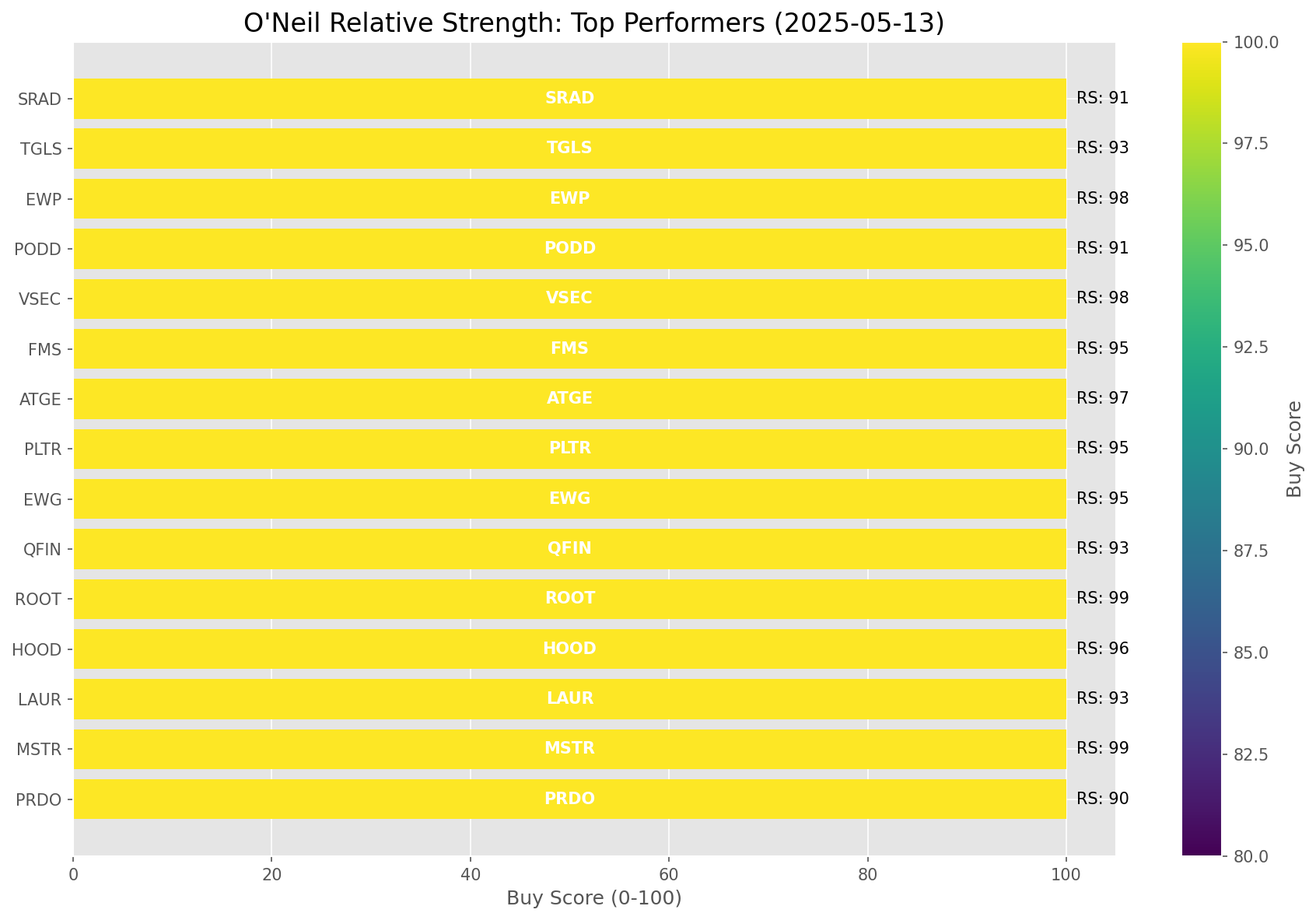
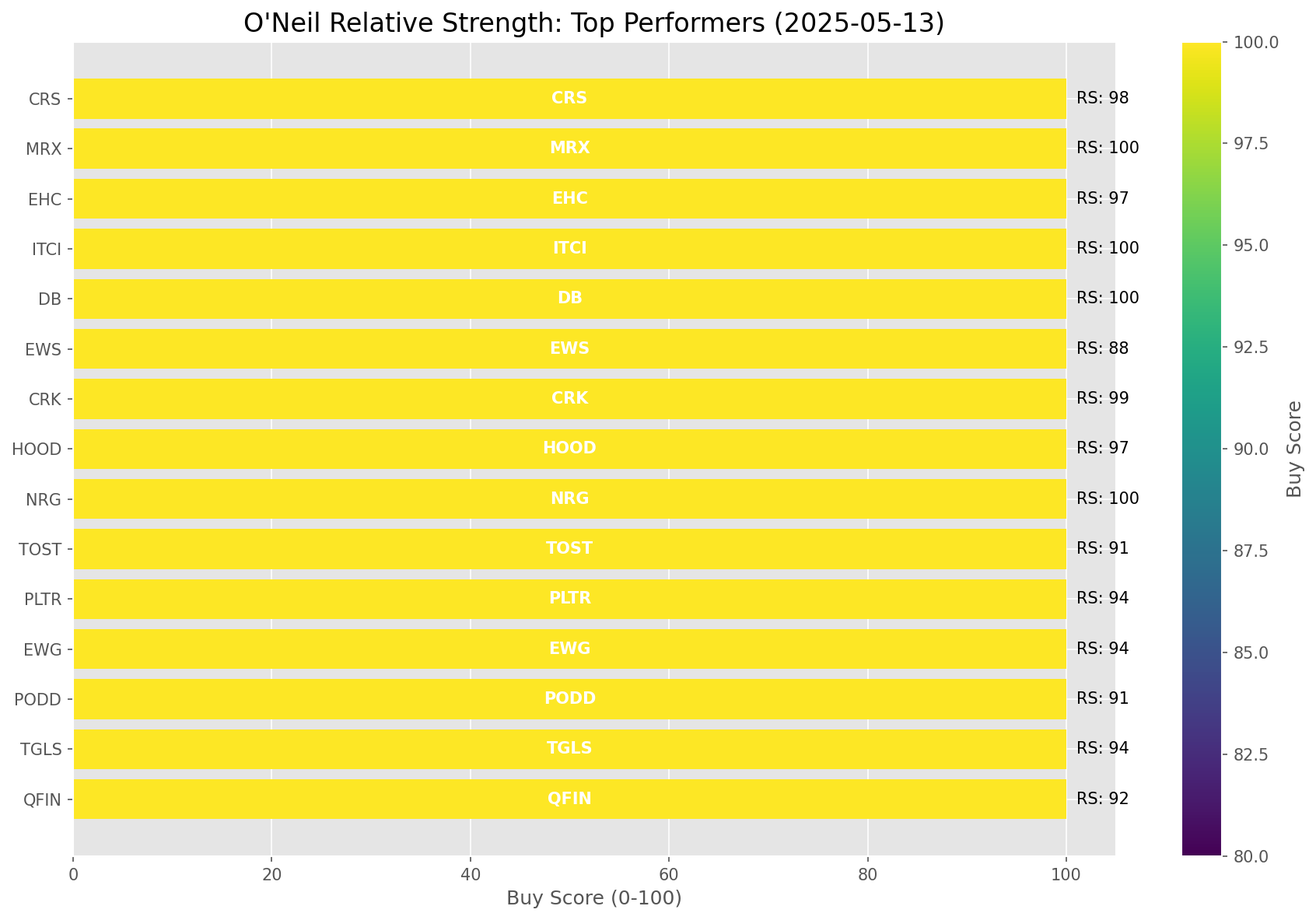
Add market report for 2025-05-13

diff --git a/oneil_relative_strength_report_2025-05-13.md b/oneil_relative_strength_report_2025-05-13.md
@@ -9,11 +9,11 @@
 | Metric | Value |
 |--------|-------|
 | **Market Valuation** | **Fair Valued** |
-| **Current Ratio** | 9.67 |
+| **Current Ratio** | 9.68 |
 | **Historical Mean** | 9.41 |
 | **Standard Deviation** | 0.51 |
 | **Z-Score (StdDev from Mean)** | 0.34 |
-| **Total Market Cap** | $289.74 trillion |
+| **Total Market Cap** | $290.15 trillion |
 | **GDP** | $29.98 trillion |
 
 ## **Market Insights**
@@ -49,41 +49,41 @@ Based on William O'Neil's Relative Strength Methodology
 
 | ETF | Strength | RS Rating | Performance | Above Key MAs | Trend | Sector |
 |-----|----------|-----------|-------------|--------------|-------|--------|
-| [KWEB](https://www.tradingview.com/chart/?symbol=KWEB) | 91.5 | 83.0 | 6.17% | 10d ✓, 50d ✓, 200d ✓ | ↗ | Chinese Internet |
-| [SLV](https://www.tradingview.com/chart/?symbol=SLV) | 88.0 | 76.0 | 3.07% | 10d ✓, 50d ✓, 200d ✓ | ↗ | Silver |
-| [XLI](https://www.tradingview.com/chart/?symbol=XLI) | 86.5 | 73.0 | 2.26% | 10d ✓, 50d ✓, 200d ✓ | ↗ | Industrial |
-| [GLD](https://www.tradingview.com/chart/?symbol=GLD) | 86.1 | 92.0 | 11.90% | 10d ✗, 50d ✓, 200d ✓ | ↗ | Gold |
-| [CIBR](https://www.tradingview.com/chart/?symbol=CIBR) | 84.5 | 69.0 | 0.75% | 10d ✓, 50d ✓, 200d ✓ | ↗ | Cybersecurity |
-| [XLU](https://www.tradingview.com/chart/?symbol=XLU) | 84.5 | 69.0 | 0.88% | 10d ✓, 50d ✓, 200d ✓ | ↗ | Utilities |
-| [IYZ](https://www.tradingview.com/chart/?symbol=IYZ) | 84.0 | 68.0 | 0.56% | 10d ✓, 50d ✓, 200d ✓ | ↗ | Telecommunications |
-| [PAVE](https://www.tradingview.com/chart/?symbol=PAVE) | 82.5 | 65.0 | 0.06% | 10d ✓, 50d ✓, 200d ✓ | ↗ | Infrastructure |
-| [XLF](https://www.tradingview.com/chart/?symbol=XLF) | 80.5 | 61.0 | -0.64% | 10d ✓, 50d ✓, 200d ✓ | ↗ | Financial |
-| [DBA](https://www.tradingview.com/chart/?symbol=DBA) | 78.0 | 56.0 | -1.85% | 10d ✓, 50d ✓, 200d ✓ | ↗ | Agriculture |
-| [AIQ](https://www.tradingview.com/chart/?symbol=AIQ) | 78.0 | 56.0 | -1.64% | 10d ✓, 50d ✓, 200d ✓ | ↗ | Artificial Intelligence & Technology |
-| [ICLN](https://www.tradingview.com/chart/?symbol=ICLN) | 77.5 | 95.0 | 15.56% | 10d ✓, 50d ✓, 200d ✓ | ↘ | Clean Energy |
-| [ARKF](https://www.tradingview.com/chart/?symbol=ARKF) | 76.5 | 53.0 | -2.45% | 10d ✓, 50d ✓, 200d ✓ | ↗ | Fintech Innovation |
-| [BLOK](https://www.tradingview.com/chart/?symbol=BLOK) | 75.5 | 51.0 | -2.65% | 10d ✓, 50d ✓, 200d ✓ | ↗ | Blockchain & Cryptocurrency |
-| [XLC](https://www.tradingview.com/chart/?symbol=XLC) | 74.5 | 49.0 | -3.00% | 10d ✓, 50d ✓, 200d ✓ | ↗ | Communications |
-| [ARKW](https://www.tradingview.com/chart/?symbol=ARKW) | 73.5 | 47.0 | -3.48% | 10d ✓, 50d ✓, 200d ✓ | ↗ | Next Generation Internet |
-| [XLY](https://www.tradingview.com/chart/?symbol=XLY) | 73.5 | 47.0 | -3.55% | 10d ✓, 50d ✓, 200d ✓ | ↗ | Consumer Discretionary |
-| [IYT](https://www.tradingview.com/chart/?symbol=IYT) | 70.5 | 41.0 | -4.96% | 10d ✓, 50d ✓, 200d ✓ | ↗ | Transportation |
-| [ARKK](https://www.tradingview.com/chart/?symbol=ARKK) | 68.0 | 36.0 | -6.67% | 10d ✓, 50d ✓, 200d ✓ | ↗ | Innovation |
-| [JETS](https://www.tradingview.com/chart/?symbol=JETS) | 63.0 | 26.0 | -10.37% | 10d ✓, 50d ✓, 200d ✓ | ↗ | Airlines |
-| [XLK](https://www.tradingview.com/chart/?symbol=XLK) | 58.0 | 56.0 | -1.62% | 10d ✓, 50d ✓, 200d ✓ | ↘ | Technology |
-| [URA](https://www.tradingview.com/chart/?symbol=URA) | 56.0 | 52.0 | -2.57% | 10d ✓, 50d ✓, 200d ✓ | ↘ | Uranium |
-| [IYR](https://www.tradingview.com/chart/?symbol=IYR) | 54.4 | 49.0 | -3.11% | 10d ✗, 50d ✓, 200d ✗ | ↗ | Real Estate |
-| [XLP](https://www.tradingview.com/chart/?symbol=XLP) | 50.5 | 61.0 | -0.63% | 10d ✗, 50d ✗, 200d ✗ | ↗ | Consumer Staples |
-| [SOXX](https://www.tradingview.com/chart/?symbol=SOXX) | 44.8 | 50.0 | -2.88% | 10d ✓, 50d ✓, 200d ✗ | ↘ | Semiconductors |
-| [XLB](https://www.tradingview.com/chart/?symbol=XLB) | 43.8 | 48.0 | -3.26% | 10d ✓, 50d ✓, 200d ✗ | ↘ | Materials |
+| [KWEB](https://www.tradingview.com/chart/?symbol=KWEB) | 91.0 | 82.0 | 6.11% | 10d ✓, 50d ✓, 200d ✓ | ↗ | Chinese Internet |
+| [SLV](https://www.tradingview.com/chart/?symbol=SLV) | 88.0 | 76.0 | 3.16% | 10d ✓, 50d ✓, 200d ✓ | ↗ | Silver |
+| [XLI](https://www.tradingview.com/chart/?symbol=XLI) | 86.5 | 73.0 | 2.39% | 10d ✓, 50d ✓, 200d ✓ | ↗ | Industrial |
+| [GLD](https://www.tradingview.com/chart/?symbol=GLD) | 86.1 | 92.0 | 11.94% | 10d ✗, 50d ✓, 200d ✓ | ↗ | Gold |
+| [CIBR](https://www.tradingview.com/chart/?symbol=CIBR) | 84.5 | 69.0 | 0.98% | 10d ✓, 50d ✓, 200d ✓ | ↗ | Cybersecurity |
+| [XLU](https://www.tradingview.com/chart/?symbol=XLU) | 84.0 | 68.0 | 0.74% | 10d ✓, 50d ✓, 200d ✓ | ↗ | Utilities |
+| [IYZ](https://www.tradingview.com/chart/?symbol=IYZ) | 83.5 | 67.0 | 0.54% | 10d ✓, 50d ✓, 200d ✓ | ↗ | Telecommunications |
+| [PAVE](https://www.tradingview.com/chart/?symbol=PAVE) | 82.5 | 65.0 | 0.17% | 10d ✓, 50d ✓, 200d ✓ | ↗ | Infrastructure |
+| [XLF](https://www.tradingview.com/chart/?symbol=XLF) | 80.5 | 61.0 | -0.55% | 10d ✓, 50d ✓, 200d ✓ | ↗ | Financial |
+| [AIQ](https://www.tradingview.com/chart/?symbol=AIQ) | 78.5 | 57.0 | -1.35% | 10d ✓, 50d ✓, 200d ✓ | ↗ | Artificial Intelligence & Technology |
+| [DBA](https://www.tradingview.com/chart/?symbol=DBA) | 78.0 | 56.0 | -1.77% | 10d ✓, 50d ✓, 200d ✓ | ↗ | Agriculture |
+| [ICLN](https://www.tradingview.com/chart/?symbol=ICLN) | 77.5 | 95.0 | 15.78% | 10d ✓, 50d ✓, 200d ✓ | ↘ | Clean Energy |
+| [BLOK](https://www.tradingview.com/chart/?symbol=BLOK) | 77.0 | 54.0 | -2.21% | 10d ✓, 50d ✓, 200d ✓ | ↗ | Blockchain & Cryptocurrency |
+| [ARKF](https://www.tradingview.com/chart/?symbol=ARKF) | 77.0 | 54.0 | -2.02% | 10d ✓, 50d ✓, 200d ✓ | ↗ | Fintech Innovation |
+| [XLC](https://www.tradingview.com/chart/?symbol=XLC) | 74.5 | 49.0 | -2.98% | 10d ✓, 50d ✓, 200d ✓ | ↗ | Communications |
+| [ARKW](https://www.tradingview.com/chart/?symbol=ARKW) | 74.5 | 49.0 | -3.12% | 10d ✓, 50d ✓, 200d ✓ | ↗ | Next Generation Internet |
+| [XLY](https://www.tradingview.com/chart/?symbol=XLY) | 73.5 | 47.0 | -3.47% | 10d ✓, 50d ✓, 200d ✓ | ↗ | Consumer Discretionary |
+| [IYT](https://www.tradingview.com/chart/?symbol=IYT) | 71.0 | 42.0 | -4.66% | 10d ✓, 50d ✓, 200d ✓ | ↗ | Transportation |
+| [ARKK](https://www.tradingview.com/chart/?symbol=ARKK) | 68.0 | 36.0 | -6.24% | 10d ✓, 50d ✓, 200d ✓ | ↗ | Innovation |
+| [JETS](https://www.tradingview.com/chart/?symbol=JETS) | 63.5 | 27.0 | -9.75% | 10d ✓, 50d ✓, 200d ✓ | ↗ | Airlines |
+| [XLK](https://www.tradingview.com/chart/?symbol=XLK) | 58.5 | 57.0 | -1.36% | 10d ✓, 50d ✓, 200d ✓ | ↘ | Technology |
+| [SOXX](https://www.tradingview.com/chart/?symbol=SOXX) | 56.0 | 52.0 | -2.55% | 10d ✓, 50d ✓, 200d ✓ | ↘ | Semiconductors |
+| [URA](https://www.tradingview.com/chart/?symbol=URA) | 56.0 | 52.0 | -2.43% | 10d ✓, 50d ✓, 200d ✓ | ↘ | Uranium |
+| [IYR](https://www.tradingview.com/chart/?symbol=IYR) | 54.9 | 50.0 | -2.90% | 10d ✗, 50d ✓, 200d ✗ | ↗ | Real Estate |
+| [XLP](https://www.tradingview.com/chart/?symbol=XLP) | 50.0 | 60.0 | -0.60% | 10d ✗, 50d ✗, 200d ✗ | ↗ | Consumer Staples |
+| [XLB](https://www.tradingview.com/chart/?symbol=XLB) | 43.8 | 48.0 | -3.20% | 10d ✓, 50d ✓, 200d ✗ | ↘ | Materials |
 | [BIL](https://www.tradingview.com/chart/?symbol=BIL) | 42.4 | 65.0 | 0.03% | 10d ✓, 50d ✗, 200d ✗ | ↘ | Short-term Treasuries |
-| [DBC](https://www.tradingview.com/chart/?symbol=DBC) | 41.3 | 43.0 | -4.36% | 10d ✓, 50d ✓, 200d ✗ | ↘ | Commodities |
-| [XLE](https://www.tradingview.com/chart/?symbol=XLE) | 39.3 | 39.0 | -5.65% | 10d ✓, 50d ✓, 200d ✗ | ↘ | Energy |
-| [ITB](https://www.tradingview.com/chart/?symbol=ITB) | 37.8 | 36.0 | -6.60% | 10d ✓, 50d ✓, 200d ✗ | ↘ | Home Construction |
-| [UUP](https://www.tradingview.com/chart/?symbol=UUP) | 29.9 | 40.0 | -5.34% | 10d ✓, 50d ✗, 200d ✗ | ↘ | U.S. Dollar |
-| [ARKG](https://www.tradingview.com/chart/?symbol=ARKG) | 27.3 | 15.0 | -16.06% | 10d ✓, 50d ✓, 200d ✗ | ↘ | Genomics |
-| [TLT](https://www.tradingview.com/chart/?symbol=TLT) | 24.0 | 48.0 | -3.24% | 10d ✗, 50d ✗, 200d ✗ | ↘ | Long-term Treasuries |
-| [XLV](https://www.tradingview.com/chart/?symbol=XLV) | 14.5 | 29.0 | -9.09% | 10d ✗, 50d ✗, 200d ✗ | ↘ | Healthcare |
-| [IBB](https://www.tradingview.com/chart/?symbol=IBB) | 13.0 | 26.0 | -10.51% | 10d ✗, 50d ✗, 200d ✗ | ↘ | Biotechnology |
+| [DBC](https://www.tradingview.com/chart/?symbol=DBC) | 41.3 | 43.0 | -4.34% | 10d ✓, 50d ✓, 200d ✗ | ↘ | Commodities |
+| [XLE](https://www.tradingview.com/chart/?symbol=XLE) | 39.3 | 39.0 | -5.48% | 10d ✓, 50d ✓, 200d ✗ | ↘ | Energy |
+| [ITB](https://www.tradingview.com/chart/?symbol=ITB) | 37.3 | 35.0 | -6.81% | 10d ✓, 50d ✓, 200d ✗ | ↘ | Home Construction |
+| [UUP](https://www.tradingview.com/chart/?symbol=UUP) | 29.4 | 39.0 | -5.44% | 10d ✓, 50d ✗, 200d ✗ | ↘ | U.S. Dollar |
+| [ARKG](https://www.tradingview.com/chart/?symbol=ARKG) | 27.3 | 15.0 | -15.83% | 10d ✓, 50d ✓, 200d ✗ | ↘ | Genomics |
+| [TLT](https://www.tradingview.com/chart/?symbol=TLT) | 24.0 | 48.0 | -3.17% | 10d ✗, 50d ✗, 200d ✗ | ↘ | Long-term Treasuries |
+| [XLV](https://www.tradingview.com/chart/?symbol=XLV) | 14.0 | 28.0 | -9.24% | 10d ✗, 50d ✗, 200d ✗ | ↘ | Healthcare |
+| [IBB](https://www.tradingview.com/chart/?symbol=IBB) | 12.0 | 24.0 | -10.68% | 10d ✗, 50d ✗, 200d ✗ | ↘ | Biotechnology |
 
 ### **Sector ETF Performance Interpretation**
 
@@ -100,172 +100,169 @@ This table shows the relative strength metrics for different market sectors base
 
 The current market leadership is coming from the following sectors: **Chinese Internet, Silver, Industrial**.
 
-The **Chinese Internet** sector (represented by **KWEB**) is showing particularly strong relative strength with an RS rating of 83.0 and performance of 6.17% vs. the S&P 500. This sector is trading above its 10-day, 50-day, 200-day moving average(s). Investors should consider focusing on high RS stocks within these leading sectors for potential outperformance.
+The **Chinese Internet** sector (represented by **KWEB**) is showing particularly strong relative strength with an RS rating of 82.0 and performance of 6.11% vs. the S&P 500. This sector is trading above its 10-day, 50-day, 200-day moving average(s). Investors should consider focusing on high RS stocks within these leading sectors for potential outperformance.
 
 ---
 
 ## **Buy Recommendations**
 
-The following 77 stocks show exceptional relative strength:
+The following 78 stocks show exceptional relative strength:
 
 | RS Rating | Buy Score | Current Price | Chart | Name | Ticker |
 |-----------|-----------|---------------|-------|------|--------|
-| 100 | 100 | $49.02 | [Chart](https://www.tradingview.com/chart/?symbol=MRX) | Marex Group plc Ordinary Shares | MRX |
-| 100 | 100 | $27.61 | [Chart](https://www.tradingview.com/chart/?symbol=DB) | Deutsche Bank Aktiengesellschaft | DB |
-| 100 | 100 | $91.56 | [Chart](https://www.tradingview.com/chart/?symbol=SEZL) | Sezzle Inc. Common Stock | SEZL |
-| 100 | 100 | $174.75 | [Chart](https://www.tradingview.com/chart/?symbol=DAVE) | Dave Inc. Class A Common Stock | DAVE |
-| 100 | 100 | $156.93 | [Chart](https://www.tradingview.com/chart/?symbol=NRG) | NRG Energy, Inc. | NRG |
-| 100 | 100 | $23.02 | [Chart](https://www.tradingview.com/chart/?symbol=PRA) | ProAssurance Corporation | PRA |
-| 100 | 100 | $155.30 | [Chart](https://www.tradingview.com/chart/?symbol=PLMR) | Palomar Holdings, Inc. Common stock | PLMR |
-| 99 | 100 | $418.66 | [Chart](https://www.tradingview.com/chart/?symbol=MSTR) | MicroStrategy Inc | MSTR |
-| 99 | 100 | $150.44 | [Chart](https://www.tradingview.com/chart/?symbol=ROOT) | Root, Inc. Class A Common Stock | ROOT |
-| 99 | 100 | $23.86 | [Chart](https://www.tradingview.com/chart/?symbol=CRK) | Comstock Resources, Inc. | CRK |
-| 99 | 100 | $70.65 | [Chart](https://www.tradingview.com/chart/?symbol=ULS) | UL Solutions Inc. | ULS |
-| 99 | 100 | $34.66 | [Chart](https://www.tradingview.com/chart/?symbol=AHR) | American Healthcare REIT, Inc. | AHR |
-| 99 | 100 | $23.87 | [Chart](https://www.tradingview.com/chart/?symbol=GRND) | Grindr Inc. | GRND |
-| 98 | 100 | $131.44 | [Chart](https://www.tradingview.com/chart/?symbol=VSEC) | VSE Corp | VSEC |
-| 98 | 100 | $41.17 | [Chart](https://www.tradingview.com/chart/?symbol=EWP) | iShares MSCI Spain ETF | EWP |
-| 98 | 100 | $223.65 | [Chart](https://www.tradingview.com/chart/?symbol=CRS) | Carpenter Technology Corp | CRS |
-| 98 | 100 | $159.67 | [Chart](https://www.tradingview.com/chart/?symbol=HWM) | Howmet Aerospace Inc. | HWM |
-| 98 | 100 | $38.18 | [Chart](https://www.tradingview.com/chart/?symbol=PAY) | Paymentus Holdings, Inc. | PAY |
-| 97 | 100 | $128.01 | [Chart](https://www.tradingview.com/chart/?symbol=ATGE) | Adtalem Global Education Inc. Common Shares | ATGE |
-| 97 | 100 | $117.96 | [Chart](https://www.tradingview.com/chart/?symbol=EHC) | Encompass Health Corporation Common Stock | EHC |
-| 97 | 100 | $127.53 | [Chart](https://www.tradingview.com/chart/?symbol=COOP) | Mr. Cooper Group Inc. Common Stock | COOP |
-| 97 | 100 | $153.38 | [Chart](https://www.tradingview.com/chart/?symbol=SE) | Sea Limited American Depositary Shares, each representing one Class A Ordinary Share | SE |
-| 97 | 100 | $30.83 | [Chart](https://www.tradingview.com/chart/?symbol=EUFN) | iShares MSCI Europe Financials ETF | EUFN |
-| 96 | 100 | $62.59 | [Chart](https://www.tradingview.com/chart/?symbol=HOOD) | Robinhood Markets, Inc. Class A Common Stock | HOOD |
-| 96 | 100 | $49.24 | [Chart](https://www.tradingview.com/chart/?symbol=ERJ) | Embraer S.A. | ERJ |
-| 95 | 100 | $40.62 | [Chart](https://www.tradingview.com/chart/?symbol=EWG) | iShares MSCI Germany ETF | EWG |
-| 95 | 100 | $129.18 | [Chart](https://www.tradingview.com/chart/?symbol=PLTR) | Palantir Technologies Inc. Class A Common Stock | PLTR |
-| 95 | 100 | $28.05 | [Chart](https://www.tradingview.com/chart/?symbol=FMS) | Fresenius Medical Care AG | FMS |
-| 95 | 100 | $33.65 | [Chart](https://www.tradingview.com/chart/?symbol=SLM) | SLM Corporation | SLM |
-| 95 | 100 | $129.04 | [Chart](https://www.tradingview.com/chart/?symbol=HIG) | The Hartford Insurance Group, Inc. | HIG |
-| 95 | 100 | $76.45 | [Chart](https://www.tradingview.com/chart/?symbol=RBLX) | Roblox Corporation | RBLX |
-| 94 | 100 | $40.84 | [Chart](https://www.tradingview.com/chart/?symbol=AB) | AllianceBernstein Holding, L.P. | AB |
-| 94 | 100 | $83.03 | [Chart](https://www.tradingview.com/chart/?symbol=RBRK) | Rubrik, Inc. | RBRK |
-| 94 | 100 | $61.83 | [Chart](https://www.tradingview.com/chart/?symbol=CHEF) | The Chef's Warehouse Inc | CHEF |
+| 100 | 100 | $157.20 | [Chart](https://www.tradingview.com/chart/?symbol=NRG) | NRG Energy, Inc. | NRG |
+| 100 | 100 | $27.59 | [Chart](https://www.tradingview.com/chart/?symbol=DB) | Deutsche Bank Aktiengesellschaft | DB |
+| 100 | 100 | $48.96 | [Chart](https://www.tradingview.com/chart/?symbol=MRX) | Marex Group plc Ordinary Shares | MRX |
+| 100 | 100 | $156.09 | [Chart](https://www.tradingview.com/chart/?symbol=PLMR) | Palomar Holdings, Inc. Common stock | PLMR |
+| 100 | 100 | $19.45 | [Chart](https://www.tradingview.com/chart/?symbol=SPNT) | SiriusPoint Ltd. | SPNT |
+| 100 | 100 | $92.31 | [Chart](https://www.tradingview.com/chart/?symbol=SEZL) | Sezzle Inc. Common Stock | SEZL |
+| 100 | 100 | $176.45 | [Chart](https://www.tradingview.com/chart/?symbol=DAVE) | Dave Inc. Class A Common Stock | DAVE |
+| 100 | 100 | $23.00 | [Chart](https://www.tradingview.com/chart/?symbol=PRA) | ProAssurance Corporation | PRA |
+| 99 | 100 | $23.67 | [Chart](https://www.tradingview.com/chart/?symbol=CRK) | Comstock Resources, Inc. | CRK |
+| 99 | 100 | $151.22 | [Chart](https://www.tradingview.com/chart/?symbol=ROOT) | Root, Inc. Class A Common Stock | ROOT |
+| 99 | 100 | $70.92 | [Chart](https://www.tradingview.com/chart/?symbol=ULS) | UL Solutions Inc. | ULS |
+| 99 | 100 | $34.76 | [Chart](https://www.tradingview.com/chart/?symbol=AHR) | American Healthcare REIT, Inc. | AHR |
+| 99 | 100 | $420.30 | [Chart](https://www.tradingview.com/chart/?symbol=MSTR) | MicroStrategy Inc | MSTR |
+| 99 | 100 | $23.82 | [Chart](https://www.tradingview.com/chart/?symbol=GRND) | Grindr Inc. | GRND |
+| 98 | 100 | $224.39 | [Chart](https://www.tradingview.com/chart/?symbol=CRS) | Carpenter Technology Corp | CRS |
+| 98 | 100 | $41.20 | [Chart](https://www.tradingview.com/chart/?symbol=EWP) | iShares MSCI Spain ETF | EWP |
+| 98 | 100 | $129.11 | [Chart](https://www.tradingview.com/chart/?symbol=ATGE) | Adtalem Global Education Inc. Common Shares | ATGE |
+| 98 | 100 | $159.30 | [Chart](https://www.tradingview.com/chart/?symbol=HWM) | Howmet Aerospace Inc. | HWM |
+| 98 | 100 | $132.93 | [Chart](https://www.tradingview.com/chart/?symbol=VSEC) | VSE Corp | VSEC |
+| 97 | 100 | $63.12 | [Chart](https://www.tradingview.com/chart/?symbol=HOOD) | Robinhood Markets, Inc. Class A Common Stock | HOOD |
+| 97 | 100 | $118.18 | [Chart](https://www.tradingview.com/chart/?symbol=EHC) | Encompass Health Corporation Common Stock | EHC |
+| 97 | 100 | $38.15 | [Chart](https://www.tradingview.com/chart/?symbol=PAY) | Paymentus Holdings, Inc. | PAY |
+| 97 | 100 | $49.53 | [Chart](https://www.tradingview.com/chart/?symbol=ERJ) | Embraer S.A. | ERJ |
+| 97 | 100 | $128.47 | [Chart](https://www.tradingview.com/chart/?symbol=COOP) | Mr. Cooper Group Inc. Common Stock | COOP |
+| 96 | 100 | $153.24 | [Chart](https://www.tradingview.com/chart/?symbol=SE) | Sea Limited American Depositary Shares, each representing one Class A Ordinary Share | SE |
+| 96 | 100 | $30.84 | [Chart](https://www.tradingview.com/chart/?symbol=EUFN) | iShares MSCI Europe Financials ETF | EUFN |
+| 95 | 100 | $28.07 | [Chart](https://www.tradingview.com/chart/?symbol=FMS) | Fresenius Medical Care AG | FMS |
+| 95 | 100 | $33.77 | [Chart](https://www.tradingview.com/chart/?symbol=SLM) | SLM Corporation | SLM |
+| 95 | 100 | $76.75 | [Chart](https://www.tradingview.com/chart/?symbol=RBLX) | Roblox Corporation | RBLX |
+| 94 | 100 | $87.89 | [Chart](https://www.tradingview.com/chart/?symbol=TGLS) | Tecnoglass Inc. | TGLS |
+| 94 | 100 | $40.66 | [Chart](https://www.tradingview.com/chart/?symbol=EWG) | iShares MSCI Germany ETF | EWG |
+| 94 | 100 | $129.48 | [Chart](https://www.tradingview.com/chart/?symbol=PLTR) | Palantir Technologies Inc. Class A Common Stock | PLTR |
+| 94 | 100 | $83.34 | [Chart](https://www.tradingview.com/chart/?symbol=RBRK) | Rubrik, Inc. | RBRK |
+| 94 | 100 | $40.97 | [Chart](https://www.tradingview.com/chart/?symbol=AB) | AllianceBernstein Holding, L.P. | AB |
+| 94 | 100 | $31.74 | [Chart](https://www.tradingview.com/chart/?symbol=UTI) | Universal Technical Institute, Inc. | UTI |
 | 93 | 100 | $22.49 | [Chart](https://www.tradingview.com/chart/?symbol=LAUR) | Laureate Education, Inc. Common Stock | LAUR |
-| 93 | 100 | $46.51 | [Chart](https://www.tradingview.com/chart/?symbol=QFIN) | Qifu Technology, Inc. American Depositary Shares | QFIN |
-| 93 | 100 | $87.41 | [Chart](https://www.tradingview.com/chart/?symbol=TGLS) | Tecnoglass Inc. | TGLS |
-| 93 | 100 | $1141.06 | [Chart](https://www.tradingview.com/chart/?symbol=NFLX) | NetFlix Inc | NFLX |
-| 92 | 100 | $300.56 | [Chart](https://www.tradingview.com/chart/?symbol=PEN) | Penumbra, Inc. | PEN |
-| 92 | 100 | $31.41 | [Chart](https://www.tradingview.com/chart/?symbol=UTI) | Universal Technical Institute, Inc. | UTI |
-| 91 | 100 | $316.02 | [Chart](https://www.tradingview.com/chart/?symbol=PODD) | Insulet Corporation | PODD |
-| 91 | 100 | $23.68 | [Chart](https://www.tradingview.com/chart/?symbol=SRAD) | Sportradar Group AG Class A Ordinary Shares | SRAD |
-| 91 | 100 | $17.01 | [Chart](https://www.tradingview.com/chart/?symbol=BCS) | Barclays PLC | BCS |
+| 93 | 100 | $1139.31 | [Chart](https://www.tradingview.com/chart/?symbol=NFLX) | NetFlix Inc | NFLX |
+| 92 | 100 | $46.20 | [Chart](https://www.tradingview.com/chart/?symbol=QFIN) | Qifu Technology, Inc. American Depositary Shares | QFIN |
+| 92 | 100 | $61.23 | [Chart](https://www.tradingview.com/chart/?symbol=CHEF) | The Chef's Warehouse Inc | CHEF |
+| 92 | 100 | $17.07 | [Chart](https://www.tradingview.com/chart/?symbol=BCS) | Barclays PLC | BCS |
+| 91 | 100 | $317.24 | [Chart](https://www.tradingview.com/chart/?symbol=PODD) | Insulet Corporation | PODD |
 | 91 | 100 | $44.37 | [Chart](https://www.tradingview.com/chart/?symbol=TOST) | Toast, Inc. | TOST |
-| 91 | 100 | $104.31 | [Chart](https://www.tradingview.com/chart/?symbol=RBA) | RB Global, Inc. | RBA |
-| 90 | 100 | $31.30 | [Chart](https://www.tradingview.com/chart/?symbol=PRDO) | Perdoceo Education Corporation | PRDO |
-| 90 | 100 | $70.50 | [Chart](https://www.tradingview.com/chart/?symbol=BROS) | Dutch Bros Inc. | BROS |
+| 91 | 100 | $299.59 | [Chart](https://www.tradingview.com/chart/?symbol=PEN) | Penumbra, Inc. | PEN |
+| 91 | 100 | $104.77 | [Chart](https://www.tradingview.com/chart/?symbol=RBA) | RB Global, Inc. | RBA |
+| 91 | 100 | $78.82 | [Chart](https://www.tradingview.com/chart/?symbol=LB) | LandBridge Company LLC | LB |
+| 90 | 100 | $31.35 | [Chart](https://www.tradingview.com/chart/?symbol=PRDO) | Perdoceo Education Corporation | PRDO |
+| 90 | 100 | $23.46 | [Chart](https://www.tradingview.com/chart/?symbol=SRAD) | Sportradar Group AG Class A Ordinary Shares | SRAD |
 | 89 | 100 | $95.34 | [Chart](https://www.tradingview.com/chart/?symbol=HEES) | H&E Equipment Services, Inc. | HEES |
-| 88 | 100 | $729.92 | [Chart](https://www.tradingview.com/chart/?symbol=AXON) | Axon Enterprise, Inc. Common Stock | AXON |
-| 88 | 100 | $25.17 | [Chart](https://www.tradingview.com/chart/?symbol=EWS) | iShares MSCI Singapore ETF | EWS |
+| 88 | 100 | $25.20 | [Chart](https://www.tradingview.com/chart/?symbol=EWS) | iShares MSCI Singapore ETF | EWS |
+| 88 | 100 | $729.00 | [Chart](https://www.tradingview.com/chart/?symbol=AXON) | Axon Enterprise, Inc. Common Stock | AXON |
 | 89 | 99 | $52.13 | [Chart](https://www.tradingview.com/chart/?symbol=EPR) | EPR Properties | EPR |
-| 88 | 99 | $296.48 | [Chart](https://www.tradingview.com/chart/?symbol=CVNA) | Carvana Co. | CVNA |
-| 87 | 99 | $195.73 | [Chart](https://www.tradingview.com/chart/?symbol=LOPE) | Grand Canyon Education, Inc | LOPE |
-| 86 | 99 | $81.10 | [Chart](https://www.tradingview.com/chart/?symbol=UNM) | Unum Group | UNM |
-| 89 | 98 | $59.35 | [Chart](https://www.tradingview.com/chart/?symbol=IBIT) | iShares Bitcoin Trust ETF | IBIT |
-| 89 | 98 | $29.53 | [Chart](https://www.tradingview.com/chart/?symbol=HODL) | VanEck Bitcoin ETF | HODL |
-| 87 | 98 | $68.14 | [Chart](https://www.tradingview.com/chart/?symbol=CTVA) | Corteva, Inc. Common Stock | CTVA |
-| 87 | 97 | $13.31 | [Chart](https://www.tradingview.com/chart/?symbol=CNH) | CNH INDUSTRIAL N.V. | CNH |
-| 87 | 97 | $17.53 | [Chart](https://www.tradingview.com/chart/?symbol=MIR) | Mirion Technologies, Inc. | MIR |
-| 86 | 97 | $206.05 | [Chart](https://www.tradingview.com/chart/?symbol=BAP) | Credicorp LTD | BAP |
-| 86 | 96 | $35.88 | [Chart](https://www.tradingview.com/chart/?symbol=FXI) | iShares China Large-Cap ETF | FXI |
-| 86 | 96 | $5293.07 | [Chart](https://www.tradingview.com/chart/?symbol=BKNG) | Booking Holdings Inc. Common Stock | BKNG |
-| 84 | 96 | $58.40 | [Chart](https://www.tradingview.com/chart/?symbol=HSBC) | HSBC Holdings PLC | HSBC |
-| 83 | 96 | $220.83 | [Chart](https://www.tradingview.com/chart/?symbol=IDCC) | InterDigital, Inc. | IDCC |
-| 85 | 95 | $62.78 | [Chart](https://www.tradingview.com/chart/?symbol=GGAL) | Grupo Financiero Galicia SA | GGAL |
-| 84 | 95 | $23.50 | [Chart](https://www.tradingview.com/chart/?symbol=BTSG) | BrightSpring Health Services, Inc. Common Stock | BTSG |
-| 84 | 95 | $74.57 | [Chart](https://www.tradingview.com/chart/?symbol=USFD) | US Foods Holding Corp. | USFD |
-| 83 | 95 | $206.40 | [Chart](https://www.tradingview.com/chart/?symbol=DRI) | Darden Restaurants, Inc. | DRI |
-| 83 | 94 | $167.29 | [Chart](https://www.tradingview.com/chart/?symbol=ITA) | iShares U.S. Aerospace & Defense ETF | ITA |
-| 82 | 93 | $221.23 | [Chart](https://www.tradingview.com/chart/?symbol=GE) | GE Aerospace | GE |
-| 82 | 93 | $31.22 | [Chart](https://www.tradingview.com/chart/?symbol=AS) | Amer Sports, Inc. | AS |
-| 82 | 92 | $57.28 | [Chart](https://www.tradingview.com/chart/?symbol=IGF) | iShares Global Infrastructure ETF | IGF |
-| 82 | 91 | $22.36 | [Chart](https://www.tradingview.com/chart/?symbol=KAR) | OPENLANE, Inc | KAR |
+| 89 | 99 | $70.57 | [Chart](https://www.tradingview.com/chart/?symbol=BROS) | Dutch Bros Inc. | BROS |
+| 87 | 99 | $196.90 | [Chart](https://www.tradingview.com/chart/?symbol=LOPE) | Grand Canyon Education, Inc | LOPE |
+| 86 | 99 | $81.14 | [Chart](https://www.tradingview.com/chart/?symbol=UNM) | Unum Group | UNM |
+| 89 | 98 | $59.27 | [Chart](https://www.tradingview.com/chart/?symbol=IBIT) | iShares Bitcoin Trust ETF | IBIT |
+| 89 | 98 | $29.50 | [Chart](https://www.tradingview.com/chart/?symbol=HODL) | VanEck Bitcoin ETF | HODL |
+| 88 | 98 | $13.42 | [Chart](https://www.tradingview.com/chart/?symbol=CNH) | CNH INDUSTRIAL N.V. | CNH |
+| 88 | 98 | $17.59 | [Chart](https://www.tradingview.com/chart/?symbol=MIR) | Mirion Technologies, Inc. | MIR |
+| 87 | 98 | $294.93 | [Chart](https://www.tradingview.com/chart/?symbol=CVNA) | Carvana Co. | CVNA |
+| 87 | 98 | $68.36 | [Chart](https://www.tradingview.com/chart/?symbol=CTVA) | Corteva, Inc. Common Stock | CTVA |
+| 85 | 98 | $222.71 | [Chart](https://www.tradingview.com/chart/?symbol=IDCC) | InterDigital, Inc. | IDCC |
+| 86 | 97 | $206.41 | [Chart](https://www.tradingview.com/chart/?symbol=BAP) | Credicorp LTD | BAP |
+| 86 | 96 | $35.90 | [Chart](https://www.tradingview.com/chart/?symbol=FXI) | iShares China Large-Cap ETF | FXI |
+| 86 | 96 | $5278.12 | [Chart](https://www.tradingview.com/chart/?symbol=BKNG) | Booking Holdings Inc. Common Stock | BKNG |
+| 85 | 96 | $23.57 | [Chart](https://www.tradingview.com/chart/?symbol=BTSG) | BrightSpring Health Services, Inc. Common Stock | BTSG |
+| 84 | 96 | $58.50 | [Chart](https://www.tradingview.com/chart/?symbol=HSBC) | HSBC Holdings PLC | HSBC |
+| 83 | 95 | $206.38 | [Chart](https://www.tradingview.com/chart/?symbol=DRI) | Darden Restaurants, Inc. | DRI |
+| 84 | 94 | $62.56 | [Chart](https://www.tradingview.com/chart/?symbol=GGAL) | Grupo Financiero Galicia SA | GGAL |
+| 83 | 94 | $167.42 | [Chart](https://www.tradingview.com/chart/?symbol=ITA) | iShares U.S. Aerospace & Defense ETF | ITA |
+| 83 | 94 | $74.34 | [Chart](https://www.tradingview.com/chart/?symbol=USFD) | US Foods Holding Corp. | USFD |
+| 83 | 94 | $221.87 | [Chart](https://www.tradingview.com/chart/?symbol=GE) | GE Aerospace | GE |
+| 82 | 91 | $22.40 | [Chart](https://www.tradingview.com/chart/?symbol=KAR) | OPENLANE, Inc | KAR |
 | 82 | 91 | $29.80 | [Chart](https://www.tradingview.com/chart/?symbol=TGS) | Transportadora de Gas del Sur S.A. ADS | TGS |
-| 81 | 91 | $58.61 | [Chart](https://www.tradingview.com/chart/?symbol=BAM) | Brookfield Asset Management Ltd. | BAM |
-| 80 | 91 | $204.42 | [Chart](https://www.tradingview.com/chart/?symbol=DFS) | Discover Financial Services | DFS |
-| 80 | 90 | $13.07 | [Chart](https://www.tradingview.com/chart/?symbol=MUFG) | Mitsubishi UFJ Financial Group, Inc. | MUFG |
+| 81 | 91 | $57.30 | [Chart](https://www.tradingview.com/chart/?symbol=IGF) | iShares Global Infrastructure ETF | IGF |
+| 80 | 91 | $31.04 | [Chart](https://www.tradingview.com/chart/?symbol=AS) | Amer Sports, Inc. | AS |
+| 80 | 91 | $23.80 | [Chart](https://www.tradingview.com/chart/?symbol=CPRX) | Catalyst Pharmaceutical  Inc. | CPRX |
+| 80 | 90 | $13.06 | [Chart](https://www.tradingview.com/chart/?symbol=MUFG) | Mitsubishi UFJ Financial Group, Inc. | MUFG |
+| 80 | 90 | $58.46 | [Chart](https://www.tradingview.com/chart/?symbol=BAM) | Brookfield Asset Management Ltd. | BAM |
 
 ---
 
 
 ## **Sell Recommendations**
 
-The following 69 stocks show deteriorating relative strength:
+The following 65 stocks show deteriorating relative strength:
 
 | RS Rating | Sell Score | Current Price | Chart | Name | Ticker |
 |-----------|------------|---------------|-------|------|--------|
 | 1 | 100 | $10.18 | [Chart](https://www.tradingview.com/chart/?symbol=NRIX) | Nurix Therapeutics, Inc. Common stock | NRIX |
-| 1 | 100 | $19.39 | [Chart](https://www.tradingview.com/chart/?symbol=BHVN) | Biohaven Ltd. | BHVN |
-| 2 | 100 | $12.90 | [Chart](https://www.tradingview.com/chart/?symbol=MNRO) | Monro, Inc. Common Stock | MNRO |
-| 3 | 100 | $13.13 | [Chart](https://www.tradingview.com/chart/?symbol=FL) | Foot Locker, Inc. | FL |
-| 4 | 100 | $10.76 | [Chart](https://www.tradingview.com/chart/?symbol=LSPD) | Lightspeed Commerce Inc. | LSPD |
-| 4 | 100 | $10.30 | [Chart](https://www.tradingview.com/chart/?symbol=HPK) | HighPeak Energy, Inc. Common Stock | HPK |
-| 4 | 100 | $30.10 | [Chart](https://www.tradingview.com/chart/?symbol=CRTO) | Criteo S.A. | CRTO |
+| 1 | 100 | $19.41 | [Chart](https://www.tradingview.com/chart/?symbol=BHVN) | Biohaven Ltd. | BHVN |
+| 2 | 100 | $12.94 | [Chart](https://www.tradingview.com/chart/?symbol=MNRO) | Monro, Inc. Common Stock | MNRO |
+| 3 | 100 | $29.93 | [Chart](https://www.tradingview.com/chart/?symbol=CRTO) | Criteo S.A. | CRTO |
+| 4 | 100 | $33.12 | [Chart](https://www.tradingview.com/chart/?symbol=AAP) | ADVANCE AUTO PARTS INC | AAP |
 | 4 | 100 | $12.10 | [Chart](https://www.tradingview.com/chart/?symbol=ARCT) | Arcturus Therapeutics Holdings Inc. Common Stock | ARCT |
+| 4 | 100 | $13.33 | [Chart](https://www.tradingview.com/chart/?symbol=FL) | Foot Locker, Inc. | FL |
+| 4 | 100 | $10.79 | [Chart](https://www.tradingview.com/chart/?symbol=LSPD) | Lightspeed Commerce Inc. | LSPD |
 | 5 | 100 | $28.01 | [Chart](https://www.tradingview.com/chart/?symbol=SRDX) | Surmodics, Inc. Common Stock | SRDX |
-| 5 | 100 | $12.78 | [Chart](https://www.tradingview.com/chart/?symbol=LBRT) | Liberty Energy Inc. | LBRT |
-| 5 | 100 | $33.26 | [Chart](https://www.tradingview.com/chart/?symbol=AAP) | ADVANCE AUTO PARTS INC | AAP |
-| 5 | 100 | $26.84 | [Chart](https://www.tradingview.com/chart/?symbol=TRN) | Trinity Industries, Inc. | TRN |
-| 6 | 100 | $127.08 | [Chart](https://www.tradingview.com/chart/?symbol=TFX) | Teleflex Incorporated | TFX |
-| 6 | 100 | $14.17 | [Chart](https://www.tradingview.com/chart/?symbol=IMVT) | Immunovant, Inc. Common Stock | IMVT |
-| 6 | 100 | $31.00 | [Chart](https://www.tradingview.com/chart/?symbol=CYTK) | Cytokinetics Inc. | CYTK |
-| 11 | 100 | $47.78 | [Chart](https://www.tradingview.com/chart/?symbol=RHI) | Robert Half Inc. | RHI |
-| 15 | 100 | $10.34 | [Chart](https://www.tradingview.com/chart/?symbol=CMRE) | Costamare Inc. | CMRE |
-| 15 | 100 | $19.55 | [Chart](https://www.tradingview.com/chart/?symbol=NVDS) | Investment Managers Series Trust II Tradr 1.5X Short NVDA Daily ETF | NVDS |
-| 18 | 100 | $13.06 | [Chart](https://www.tradingview.com/chart/?symbol=MED) | Medifast, Inc. | MED |
-| 5 | 99 | $32.56 | [Chart](https://www.tradingview.com/chart/?symbol=TWST) | Twist Bioscience Corporation Common Stock | TWST |
+| 5 | 100 | $26.89 | [Chart](https://www.tradingview.com/chart/?symbol=TRN) | Trinity Industries, Inc. | TRN |
+| 5 | 100 | $12.84 | [Chart](https://www.tradingview.com/chart/?symbol=LBRT) | Liberty Energy Inc. | LBRT |
+| 5 | 100 | $10.38 | [Chart](https://www.tradingview.com/chart/?symbol=HPK) | HighPeak Energy, Inc. Common Stock | HPK |
+| 6 | 100 | $127.61 | [Chart](https://www.tradingview.com/chart/?symbol=TFX) | Teleflex Incorporated | TFX |
+| 6 | 100 | $30.73 | [Chart](https://www.tradingview.com/chart/?symbol=CYTK) | Cytokinetics Inc. | CYTK |
+| 6 | 100 | $14.15 | [Chart](https://www.tradingview.com/chart/?symbol=IMVT) | Immunovant, Inc. Common Stock | IMVT |
+| 11 | 100 | $47.82 | [Chart](https://www.tradingview.com/chart/?symbol=RHI) | Robert Half Inc. | RHI |
+| 14 | 100 | $10.34 | [Chart](https://www.tradingview.com/chart/?symbol=CMRE) | Costamare Inc. | CMRE |
+| 15 | 100 | $19.51 | [Chart](https://www.tradingview.com/chart/?symbol=NVDS) | Investment Managers Series Trust II Tradr 1.5X Short NVDA Daily ETF | NVDS |
+| 17 | 100 | $12.94 | [Chart](https://www.tradingview.com/chart/?symbol=MED) | Medifast, Inc. | MED |
+| 5 | 99 | $32.69 | [Chart](https://www.tradingview.com/chart/?symbol=TWST) | Twist Bioscience Corporation Common Stock | TWST |
+| 12 | 99 | $17.49 | [Chart](https://www.tradingview.com/chart/?symbol=IDYA) | IDEAYA Biosciences, Inc. Common Stock | IDYA |
 | 5 | 98 | $10.31 | [Chart](https://www.tradingview.com/chart/?symbol=VREX) | Varex Imaging Corporation Common Stock | VREX |
-| 13 | 98 | $17.53 | [Chart](https://www.tradingview.com/chart/?symbol=IDYA) | IDEAYA Biosciences, Inc. Common Stock | IDYA |
+| 20 | 97 | $28.54 | [Chart](https://www.tradingview.com/chart/?symbol=AGIO) | Agios Pharmaceuticals, Inc. | AGIO |
 | 8 | 96 | $32.55 | [Chart](https://www.tradingview.com/chart/?symbol=MBIN) | Merchants Bancorp Common Stock | MBIN |
-| 13 | 96 | $10.00 | [Chart](https://www.tradingview.com/chart/?symbol=MTAL) | MAC Copper Limited | MTAL |
-| 15 | 96 | $13.25 | [Chart](https://www.tradingview.com/chart/?symbol=ZUMZ) | Zumiez Inc. | ZUMZ |
-| 19 | 95 | $36.20 | [Chart](https://www.tradingview.com/chart/?symbol=SLB) | Schlumberger Limited | SLB |
-| 22 | 95 | $28.72 | [Chart](https://www.tradingview.com/chart/?symbol=AGIO) | Agios Pharmaceuticals, Inc. | AGIO |
-| 12 | 94 | $16.28 | [Chart](https://www.tradingview.com/chart/?symbol=CHCT) | Community Healthcare Trust Incorporated Common Stock, $0.01 par value per share | CHCT |
-| 9 | 93 | $34.80 | [Chart](https://www.tradingview.com/chart/?symbol=TECS) | Direxion Daily Technology Bear 3x Shares | TECS |
-| 11 | 92 | $12.32 | [Chart](https://www.tradingview.com/chart/?symbol=APLE) | Apple Hospitality REIT, Inc. | APLE |
-| 17 | 92 | $53.09 | [Chart](https://www.tradingview.com/chart/?symbol=ERX) | Direxion Daily Energy Bull 2X Shares | ERX |
-| 18 | 91 | $19.36 | [Chart](https://www.tradingview.com/chart/?symbol=AAT) | AMERICAN ASSETS TRUST, INC. | AAT |
-| 15 | 90 | $12.02 | [Chart](https://www.tradingview.com/chart/?symbol=WEN) | The Wendy's Company | WEN |
-| 11 | 89 | $53.05 | [Chart](https://www.tradingview.com/chart/?symbol=PRCT) | PROCEPT BioRobotics Corporation Common Stock | PRCT |
-| 11 | 89 | $14.93 | [Chart](https://www.tradingview.com/chart/?symbol=INMD) | InMode Ltd. Ordinary Shares | INMD |
-| 19 | 89 | $20.28 | [Chart](https://www.tradingview.com/chart/?symbol=BITI) | ProShares Short Bitcoin ETF | BITI |
-| 17 | 88 | $84.55 | [Chart](https://www.tradingview.com/chart/?symbol=WHR) | Whirlpool Corp. | WHR |
-| 22 | 88 | $51.59 | [Chart](https://www.tradingview.com/chart/?symbol=LW) | Lamb Weston Holdings, Inc. | LW |
+| 15 | 95 | $13.29 | [Chart](https://www.tradingview.com/chart/?symbol=ZUMZ) | Zumiez Inc. | ZUMZ |
+| 14 | 94 | $10.09 | [Chart](https://www.tradingview.com/chart/?symbol=MTAL) | MAC Copper Limited | MTAL |
+| 20 | 94 | $36.38 | [Chart](https://www.tradingview.com/chart/?symbol=SLB) | Schlumberger Limited | SLB |
+| 8 | 93 | $34.49 | [Chart](https://www.tradingview.com/chart/?symbol=TECS) | Direxion Daily Technology Bear 3x Shares | TECS |
+| 13 | 93 | $16.39 | [Chart](https://www.tradingview.com/chart/?symbol=CHCT) | Community Healthcare Trust Incorporated Common Stock, $0.01 par value per share | CHCT |
+| 17 | 92 | $53.26 | [Chart](https://www.tradingview.com/chart/?symbol=ERX) | Direxion Daily Energy Bull 2X Shares | ERX |
+| 11 | 91 | $12.34 | [Chart](https://www.tradingview.com/chart/?symbol=APLE) | Apple Hospitality REIT, Inc. | APLE |
+| 15 | 90 | $11.99 | [Chart](https://www.tradingview.com/chart/?symbol=WEN) | The Wendy's Company | WEN |
+| 18 | 90 | $19.45 | [Chart](https://www.tradingview.com/chart/?symbol=AAT) | AMERICAN ASSETS TRUST, INC. | AAT |
+| 16 | 89 | $84.24 | [Chart](https://www.tradingview.com/chart/?symbol=WHR) | Whirlpool Corp. | WHR |
+| 19 | 89 | $20.30 | [Chart](https://www.tradingview.com/chart/?symbol=BITI) | ProShares Short Bitcoin ETF | BITI |
+| 21 | 89 | $51.42 | [Chart](https://www.tradingview.com/chart/?symbol=LW) | Lamb Weston Holdings, Inc. | LW |
+| 12 | 88 | $15.08 | [Chart](https://www.tradingview.com/chart/?symbol=INMD) | InMode Ltd. Ordinary Shares | INMD |
 | 20 | 85 | $36.54 | [Chart](https://www.tradingview.com/chart/?symbol=BHE) | Benchmark Electronics | BHE |
 | 20 | 84 | $10.54 | [Chart](https://www.tradingview.com/chart/?symbol=AVO) | Mission Produce, Inc. Common Stock | AVO |
 | 25 | 83 | $13.09 | [Chart](https://www.tradingview.com/chart/?symbol=DBO) | Invesco DB Oil Fund | DBO |
-| 31 | 83 | $31.30 | [Chart](https://www.tradingview.com/chart/?symbol=ZSL) | ProShares UltraShort Silver | ZSL |
-| 32 | 83 | $64.26 | [Chart](https://www.tradingview.com/chart/?symbol=ZROZ) | PIMCO 25+ Year Zero Coupon U.S. Treasury Index Exchange-Traded Fund | ZROZ |
-| 39 | 83 | $28.30 | [Chart](https://www.tradingview.com/chart/?symbol=IMCR) | Immunocore Holdings plc American Depositary Shares | IMCR |
-| 26 | 82 | $31.00 | [Chart](https://www.tradingview.com/chart/?symbol=LEGN) | Legend Biotech Corporation American Depositary Shares | LEGN |
-| 29 | 81 | $234.16 | [Chart](https://www.tradingview.com/chart/?symbol=HUM) | Humana Inc. | HUM |
-| 22 | 80 | $14.64 | [Chart](https://www.tradingview.com/chart/?symbol=RYLD) | Global X Russell 2000 Covered Call ETF | RYLD |
-| 22 | 79 | $16.41 | [Chart](https://www.tradingview.com/chart/?symbol=QYLD) | Global X Funds Global X NASDAQ-100 Covered Call ETF | QYLD |
-| 24 | 79 | $31.82 | [Chart](https://www.tradingview.com/chart/?symbol=KRC) | Kilroy Realty Corp. | KRC |
-| 34 | 79 | $25.45 | [Chart](https://www.tradingview.com/chart/?symbol=RCI) | Rogers Communications, Inc. | RCI |
-| 30 | 78 | $54.12 | [Chart](https://www.tradingview.com/chart/?symbol=GIS) | General Mills, Inc. | GIS |
-| 31 | 78 | $13.89 | [Chart](https://www.tradingview.com/chart/?symbol=BSM) | Black Stone Minerals, L.P. | BSM |
-| 34 | 78 | $136.15 | [Chart](https://www.tradingview.com/chart/?symbol=HES) | Hess Corporation | HES |
-| 29 | 77 | $14.67 | [Chart](https://www.tradingview.com/chart/?symbol=HR) | Healthcare Realty Trust Incorporated | HR |
+| 31 | 83 | $31.32 | [Chart](https://www.tradingview.com/chart/?symbol=ZSL) | ProShares UltraShort Silver | ZSL |
+| 26 | 82 | $31.12 | [Chart](https://www.tradingview.com/chart/?symbol=LEGN) | Legend Biotech Corporation American Depositary Shares | LEGN |
+| 27 | 82 | $231.72 | [Chart](https://www.tradingview.com/chart/?symbol=HUM) | Humana Inc. | HUM |
+| 32 | 82 | $64.42 | [Chart](https://www.tradingview.com/chart/?symbol=ZROZ) | PIMCO 25+ Year Zero Coupon U.S. Treasury Index Exchange-Traded Fund | ZROZ |
+| 23 | 79 | $31.82 | [Chart](https://www.tradingview.com/chart/?symbol=KRC) | Kilroy Realty Corp. | KRC |
+| 29 | 79 | $54.06 | [Chart](https://www.tradingview.com/chart/?symbol=GIS) | General Mills, Inc. | GIS |
+| 34 | 79 | $25.41 | [Chart](https://www.tradingview.com/chart/?symbol=RCI) | Rogers Communications, Inc. | RCI |
+| 22 | 78 | $16.41 | [Chart](https://www.tradingview.com/chart/?symbol=QYLD) | Global X Funds Global X NASDAQ-100 Covered Call ETF | QYLD |
+| 31 | 78 | $13.92 | [Chart](https://www.tradingview.com/chart/?symbol=BSM) | Black Stone Minerals, L.P. | BSM |
+| 34 | 77 | $136.34 | [Chart](https://www.tradingview.com/chart/?symbol=HES) | Hess Corporation | HES |
 | 38 | 77 | $10.88 | [Chart](https://www.tradingview.com/chart/?symbol=LBTYA) | Liberty Global Ltd. Class A Common Shares | LBTYA |
-| 27 | 76 | $14.23 | [Chart](https://www.tradingview.com/chart/?symbol=EIC) | Eagle Point Income Company Inc. | EIC |
-| 30 | 75 | $14.50 | [Chart](https://www.tradingview.com/chart/?symbol=BMEZ) | BlackRock Health Sciences Term Trust | BMEZ |
-| 30 | 75 | $10.76 | [Chart](https://www.tradingview.com/chart/?symbol=SCS) | Steelcase, Inc. | SCS |
-| 28 | 72 | $142.59 | [Chart](https://www.tradingview.com/chart/?symbol=CVX) | Chevron Corporation | CVX |
-| 30 | 72 | $10.77 | [Chart](https://www.tradingview.com/chart/?symbol=LADR) | LADDER CAPITAL CORP | LADR |
-| 36 | 72 | $35.43 | [Chart](https://www.tradingview.com/chart/?symbol=CPB) | The Campbell's Company Common Stock | CPB |
-| 36 | 71 | $35.41 | [Chart](https://www.tradingview.com/chart/?symbol=NSA) | National Storage Affiliates Trust | NSA |
+| 29 | 76 | $14.69 | [Chart](https://www.tradingview.com/chart/?symbol=HR) | Healthcare Realty Trust Incorporated | HR |
+| 29 | 76 | $10.73 | [Chart](https://www.tradingview.com/chart/?symbol=SCS) | Steelcase, Inc. | SCS |
+| 39 | 76 | $60.02 | [Chart](https://www.tradingview.com/chart/?symbol=BMRN) | BioMarin Pharmaceuticals Inc | BMRN |
+| 29 | 75 | $14.47 | [Chart](https://www.tradingview.com/chart/?symbol=BMEZ) | BlackRock Health Sciences Term Trust | BMEZ |
+| 35 | 73 | $35.38 | [Chart](https://www.tradingview.com/chart/?symbol=CPB) | The Campbell's Company Common Stock | CPB |
+| 28 | 72 | $142.77 | [Chart](https://www.tradingview.com/chart/?symbol=CVX) | Chevron Corporation | CVX |
+| 30 | 71 | $10.79 | [Chart](https://www.tradingview.com/chart/?symbol=LADR) | LADDER CAPITAL CORP | LADR |
+| 36 | 71 | $35.45 | [Chart](https://www.tradingview.com/chart/?symbol=NSA) | National Storage Affiliates Trust | NSA |
 | 35 | 70 | $17.72 | [Chart](https://www.tradingview.com/chart/?symbol=JPMpM) | JPMorgan Chase & Co. Depositary Shares, each representing a 1/400th interest in a share of 4.20% Non-Cumulative Preferred Stock, Series MM | JPMpM |
-| 37 | 69 | $11.25 | [Chart](https://www.tradingview.com/chart/?symbol=MQY) | Blackrock Muni Yield Quality Fund, Inc | MQY |
-| 34 | 68 | $25.80 | [Chart](https://www.tradingview.com/chart/?symbol=IRDM) | Iridium Communications Inc. | IRDM |
-| 37 | 68 | $10.54 | [Chart](https://www.tradingview.com/chart/?symbol=NMZ) | Nuveen Municipal High Income Opportunity Fund | NMZ |
-| 39 | 67 | $29.01 | [Chart](https://www.tradingview.com/chart/?symbol=QID) | ProShares UltraShort QQQ | QID |
-| 39 | 65 | $10.68 | [Chart](https://www.tradingview.com/chart/?symbol=MYI) | BLACKROCK MUNIYIELD QUALITY FUND III, INC. | MYI |
-| 38 | 64 | $12.01 | [Chart](https://www.tradingview.com/chart/?symbol=NVG) | Nuveen AMT-Free Municipal Credit Income Fund | NVG |
+| 32 | 69 | $25.68 | [Chart](https://www.tradingview.com/chart/?symbol=IRDM) | Iridium Communications Inc. | IRDM |
+| 37 | 68 | $11.25 | [Chart](https://www.tradingview.com/chart/?symbol=MQY) | Blackrock Muni Yield Quality Fund, Inc | MQY |
+| 37 | 68 | $10.56 | [Chart](https://www.tradingview.com/chart/?symbol=NMZ) | Nuveen Municipal High Income Opportunity Fund | NMZ |
+| 38 | 67 | $28.92 | [Chart](https://www.tradingview.com/chart/?symbol=QID) | ProShares UltraShort QQQ | QID |
+| 38 | 63 | $12.02 | [Chart](https://www.tradingview.com/chart/?symbol=NVG) | Nuveen AMT-Free Municipal Credit Income Fund | NVG |
 
 ## **Methodology**
 
